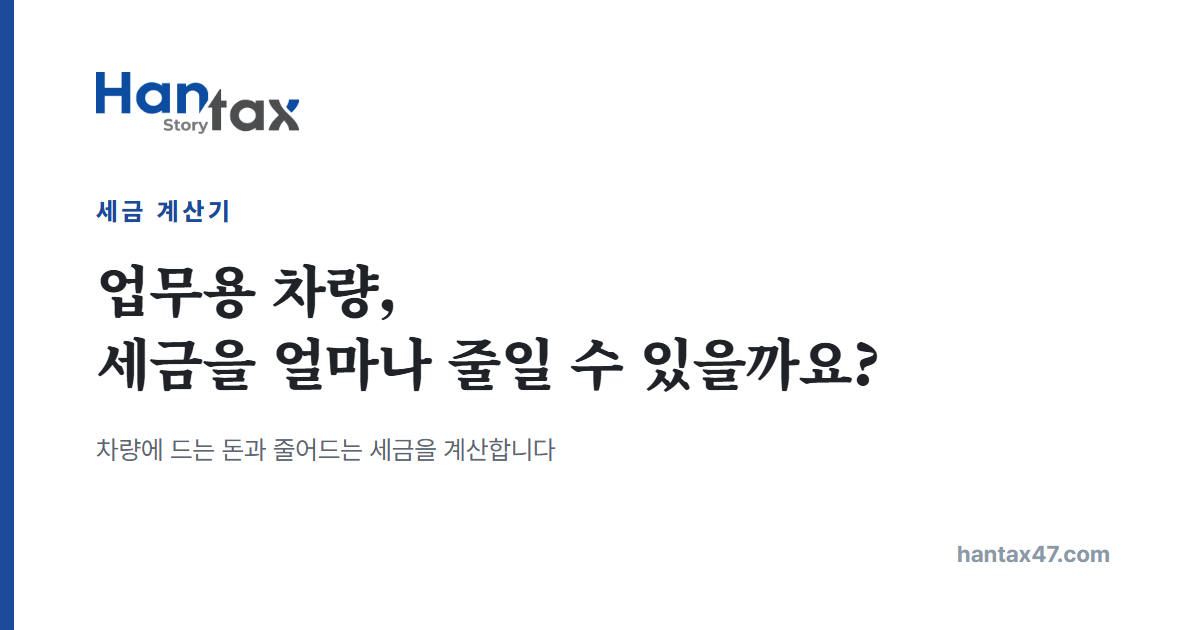
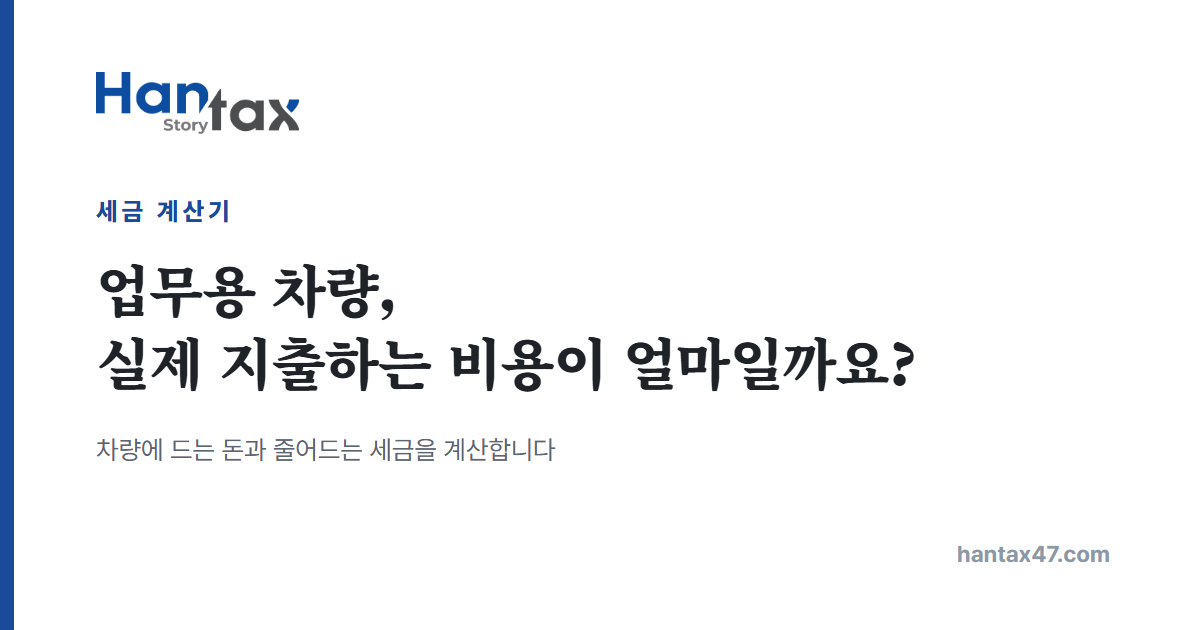
업무용 차량 계산기 제목 변경: 실제 지출하는 비용이 얼마일까요?
사용자 요청으로 "업무용 차량, 세금을 얼마나 줄일 수 있을까요?"를 "업무용 차량, 실제 지출하는 비용이 얼마일까요?"로 바꿈. 브라우저 탭 제목, 카톡 미리보기 제목과 이미지(?v=3), 페이지 제목, 계산기 목록 카드, 메인 화면 카드를 같은 문구로 맞춤.

Changed region(s): [[0.0617, 0.5127, 0.7708, 0.6333]]

diff --git a/tools/business-car.html b/tools/business-car.html
@@ -3,14 +3,14 @@
 <head>
 <meta charset="UTF-8">
 <meta name="viewport" content="width=device-width, initial-scale=1.0">
-<title>업무용 차량 계산기 2026, 세금을 얼마나 줄일 수 있을까요? | 한택스</title>
+<title>업무용 차량 계산기 2026, 실제 지출하는 비용이 얼마일까요? | 한택스</title>
 <meta name="description" content="법인과 개인사업자가 업무용 차량을 일시취득, 할부취득, 운용리스, 장기렌트로 들일 때 실제로 나가는 돈과 줄어드는 세금을 계산합니다. 업무용승용차 비용 한도와 부가가치세 공제 여부를 반영합니다.">
 <link rel="canonical" href="https://www.hantax47.com/tools/business-car.html">
-<meta property="og:title" content="업무용 차량, 세금을 얼마나 줄일 수 있을까요?">
+<meta property="og:title" content="업무용 차량, 실제 지출하는 비용이 얼마일까요?">
 <meta property="og:description" content="업무용 차량에 드는 돈과 줄어드는 세금을 계산하는 계산기">
 <meta property="og:type" content="website">
 <meta property="og:url" content="https://www.hantax47.com/tools/business-car.html">
-<meta property="og:image" content="https://www.hantax47.com/assets/og/tool-business-car.png?v=2">
+<meta property="og:image" content="https://www.hantax47.com/assets/og/tool-business-car.png?v=3">
 <meta property="og:site_name" content="한택스">
 <link rel="icon" href="../assets/favicon.png?v=4">
 <link rel="preconnect" href="https://fonts.googleapis.com">
@@ -153,7 +153,7 @@
 <section class="page-head">
   <div class="wrap">
     <span class="eyebrow">세무설계</span>
-    <h1>업무용 차량,<br>세금을 얼마나 줄일 수 있을까요?</h1>
+    <h1>업무용 차량,<br>실제 지출하는 비용이 얼마일까요?</h1>
     <p class="lead">차량 가격과 보유 기간을 넣으면 실제로 나가는 돈과 비용 처리로 줄어드는 세금을 계산합니다. 일시취득, 할부취득, 운용리스, 장기렌트 네 가지 경우를 함께 보여 드립니다.</p>
   </div>
 </section>

diff --git a/tools/index.html b/tools/index.html
@@ -120,7 +120,7 @@
       </a>
 
       <a class="tool" href="business-car.html">
-        <b>업무용 차량,<br>세금을 얼마나 줄일 수 있을까요?</b>
+        <b>업무용 차량,<br>실제 지출하는 비용이 얼마일까요?</b>
         <p>차량 가격과 보유 기간을 넣으면 실제로 나가는 돈과 줄어드는 세금을 계산합니다. 일시취득, 할부취득, 운용리스, 장기렌트를 함께 보여 드립니다.</p>
         <span class="go">계산해 보기</span>
       </a>

diff --git a/index.html b/index.html
@@ -327,7 +327,7 @@
       </a>
       <a class="toolcard" href="tools/business-car.html">
         <span>업무용 차량</span>
-        <b>세금을 얼마나 줄일 수 있을까요?</b>
+        <b>실제 지출하는 비용이 얼마일까요?</b>
       </a>
       <a class="toolcard" href="tools/gift-tax.html">
         <span>증여세</span>
